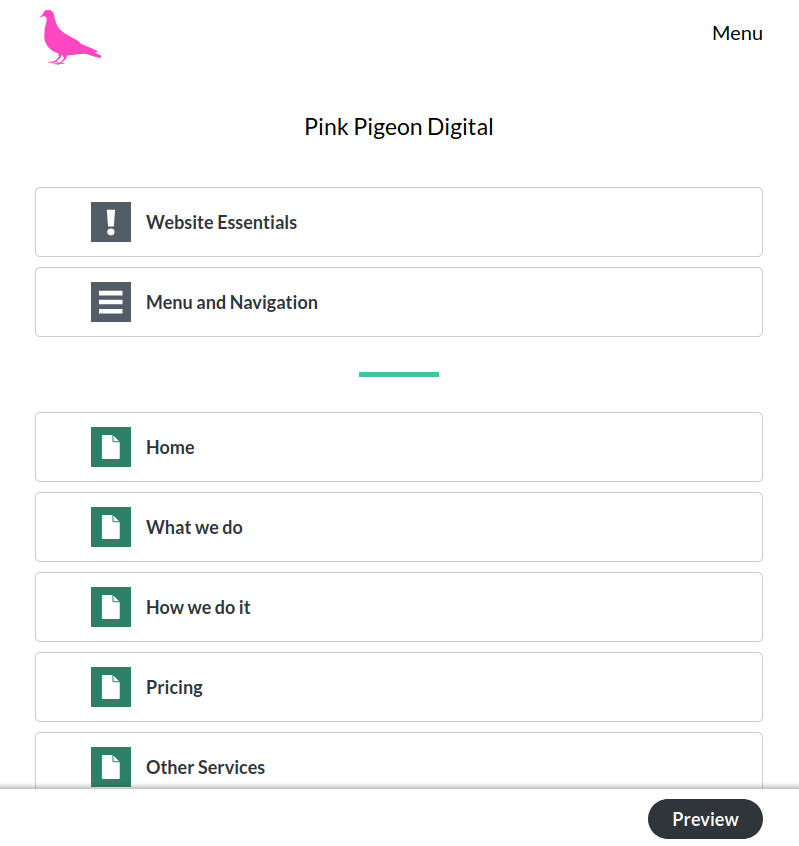
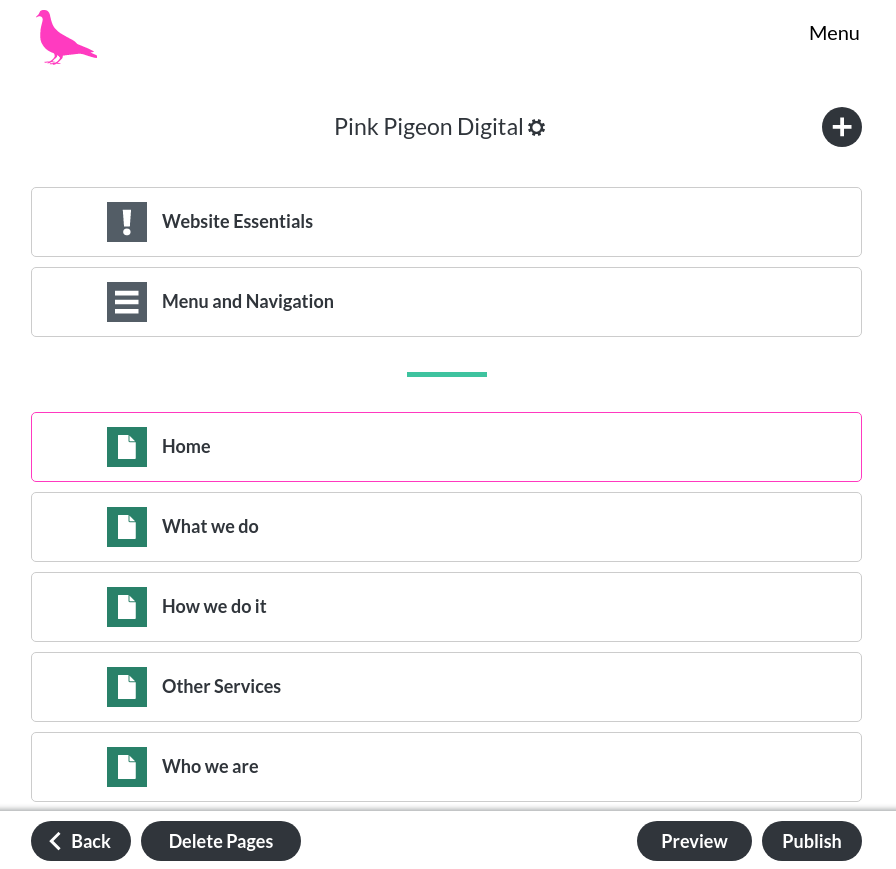
recent

diff --git a/docs/8_Technical/2_supported_browsers.md b/docs/8_Technical/2_supported_browsers.md
@@ -1,0 +1,32 @@
+---
+sort: 2
+---
+
+# Supported Browsers
+
+We support most desktop and mobile web browsers for viewing and editing your site, but we are unable to guarantee full functionality across every browser and device. Some older browsers are too archaic to support our build methods and are used by such a small percentage of users that we have chosen to focus our support on the most recent versions of most major browsers. If you need your site to work on a browser that we do not fully support, it may be possible but we will have to quote for this work on a case by case basis.
+
+Our fully supported browser list means your site will work for most people, however anyone on an older browser will receive a prompt to update their browser to something that we do support (which is safer and better for them for all online browsing).
+
+You can use the CMS and your website across the following browsers and devices:
+
+- **Chrome:** Supported for Windows, Mac and Linux, from version 80 upwards
+- **Firefox:** Supported for Windows, Mac and Linux, from version 72 upwards
+- **Safari:** Supported for Mac only, from version 14 upwards
+- **Microsoft Edge:** Supported for Windows only, from version 80 upwards
+- **Android Browser:** Support for Android devices, from version 76 upwards
+- **iOS Safari:** Supported for iOS devices, from version 12 upwards
+
+We do not support Internet Explorer as Microsoft no longer support it (it has been superseded by Edge).
+
+There are a few important things to be aware of when using a supported browser:
+- We are unable to support Beta versions of browsers
+- Private browsing may not be supported for editing your site
+- Some browser add-ons may interfere with your site, so they may need to be disabled while we troubleshoot issues
+- JavaScript must be enabled
+
+We are unable to support screen resolutions below 320 pixels wide due to the quantity of content required by our clients. Our sites will display a horizontal scrollbar on sites under this width so you will still be able to interact with the site as normal.
+
+(With thanks to [rundocs][docslink], whose theme we have adapted)
+
+[docslink]:https://rundocs.io/

diff --git a/docs/3_Home_Screen/1_home_screen.md b/docs/3_Home_Screen/1_home_screen.md
@@ -20,11 +20,21 @@ In the top left corner you can see our Pink Pigeon logo, which will always take 
 
 ![Image of the home screen, Pink Pigeon highlighted](https://raw.githubusercontent.com/pinkpigeondocs/Pink-Pigeon-Documentation/master/docs/3_Home_Screen/images/home_pink_pigeon_logo.png)
 
-## Your website's name
+## Website Name / Settings
 
-Immediately below, your website's name (Please note that you cannot change this yourself. If you would like it changed, please [contact us](https://cms.pinkpigeon.co.uk/contact)):
+Immediately below, you can see your website's name:
 
-![Image of the home screen, website title highlighted](https://raw.githubusercontent.com/pinkpigeondocs/Pink-Pigeon-Documentation/master/docs/3_Home_Screen/images/home_website_title.png)
+![Image of the home screen, website title highlighted](https://raw.githubusercontent.com/pinkpigeondocs/Pink-Pigeon-Documentation/master/docs/3_Home_Screen/images/home_main_site_settings.png)
+
+This is where you can rename your site by clicking on its title, or access your website's settings, by clicking on the settings cog next to your site's title.
+
+This will allow you to change your website's name, where contact forms are sent, add an analytics code, if you are a [Silver][accounttypes] or [Gold][accounttypes] user, and you will be able to see statistics on your website's size, or the number of modules and pages you are using:
+
+![Image of the home screen, site settings opened](https://raw.githubusercontent.com/pinkpigeondocs/Pink-Pigeon-Documentation/master/docs/3_Home_Screen/images/home_main_site_settings_opened.png)
+
+If you are a [Bronze][accounttypes] or [Silver][accounttypes] user, you can upgrade your account from here as well, if you need either added analytics features, higher account limits or faster support.
+
+[accounttypes]: https://pinkpigeondocs.github.io/Pink-Pigeon-Documentation/2_Account_Setup_And_Login/2_login.html#resetting-your-password
 
 ## Essentials and Navigation
 

diff --git a/docs/8_Technical/3_analytics.md b/docs/8_Technical/3_analytics.md
@@ -1,0 +1,33 @@
+---
+sort: 3
+---
+
+# Analytics
+
+## Silver Users
+
+From silver and up, users can add a [Google Analytics](https://analytics.google.com/analytics/web/) tag to their website.
+There is a tutorial showing how you can get your analytics tag [here](https://support.google.com/analytics/answer/1008080).
+The only part of the analytics tag that you need is the Tracking ID (mentioned in part 5 of the tutorial above) that looks like this: UA-123456789-1
+Once you have added that within the CMS, by clicking here:
+
+![Image of site settings](https://raw.githubusercontent.com/pinkpigeondocs/Pink-Pigeon-Documentation/master/docs/8_Technical/images/site_settings.png)
+
+And adding your code here:
+
+![Image of site settings](https://raw.githubusercontent.com/pinkpigeondocs/Pink-Pigeon-Documentation/master/docs/8_Technical/images/site_settings_analytics.png)
+
+
+You should be able to see traffic come through to your site, so long as someone visits your site without an adblocker (or adblocking browser like Firefox or Brave).
+
+## Gold Users
+
+At this level, you will receive special events for button clicks, which will inform you of where on your site users have clicked, including form submissions and a check for whether a link returns a 404 (which means the link does not work).
+
+The events will show here (old GA interface):
+
+![Image of google analytics traffic sources in old interface](https://raw.githubusercontent.com/pinkpigeondocs/Pink-Pigeon-Documentation/master/docs/8_Technical/images/ga_traffic_sources.png)
+
+Or here (new GA interface):
+
+![Image of google analytics traffic sources in new interface](https://raw.githubusercontent.com/pinkpigeondocs/Pink-Pigeon-Documentation/master/docs/8_Technical/images/ga_traffic_sources_new.png)
